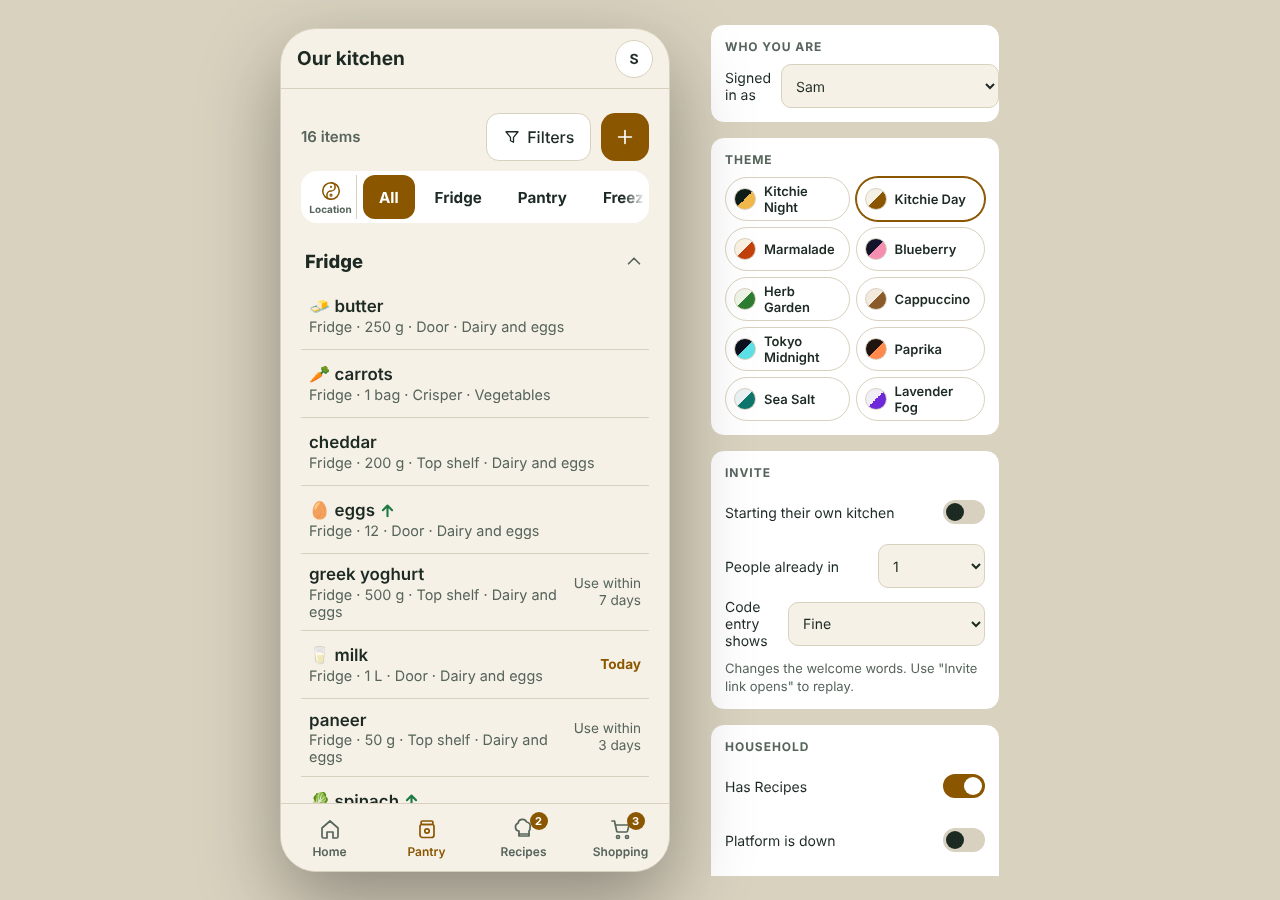
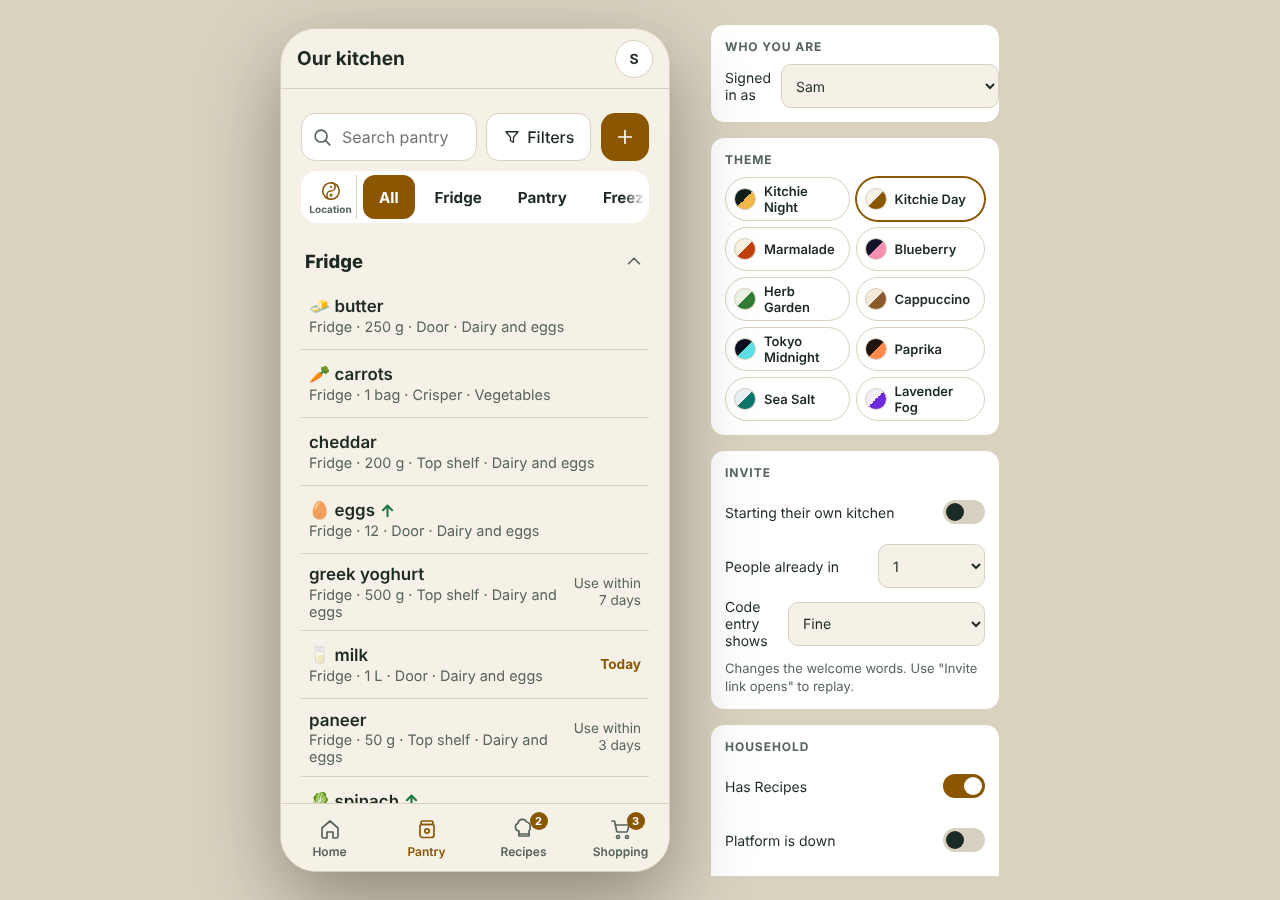
Desktop pantry mock: docked search bar and refresh animation on tab focus
Desktop page only, above 1024px: a permanent search bar docked beside
Filters and Add; no pull gesture; the existing pull-to-refresh scene plays
over the search bar when the tab regains focus (real focus event, or the
Controls "Simulate tab focus" button). Phone and tablet unchanged.
DESIGN.md section 7, docs/knowledge, README and screenshots script updated.

Claude-Session: https://claude.ai/code/session_014hkiLSfMVo5xRfictN7WCt

Changed region(s): [[0.2188, 0.1244, 0.375, 0.1867]]

diff --git a/flows/household/app.js b/flows/household/app.js
@@ -251,6 +251,12 @@ const roleChip = (who) => role(who) ? `<span class="chip rchip">${riSvg(role(who
    fetched once on that first tap and cached. The used-up confirm is built only when opened. README: "Item detail". */
 /* app.js is shared by the mobile, tablet and desktop pages, which sit one folder below it, so field files are found next to this script and not next to the page. */
 const APP_BASE = document.currentScript.src.replace(/[^/]*$/, "");
+/* Which form factor page this is (<body data-form>). The script is shared; it branches on this only where behaviour genuinely differs.
+   Desktop pantry (DESIGN.md section 7, "Desktop pantry"): above 1024px the desktop page docks a permanent search bar beside Filters and Add,
+   there is no pull gesture, and a tab regaining focus plays the refresh animation over the search bar. */
+const FORM = document.body.dataset.form || "mobile";
+const deskMQ = window.matchMedia("(min-width:1024px)");
+const isDesk = () => FORM === "desktop" && deskMQ.matches;
 const ITEM_FIELDS = {}; /* each fields/*.js adds { html(p), set: { op(p, value) -> patch | error text } } for its keys */
 const FIELD_FILE = { name: "name", qty: "amounts", min: "amounts", level: "flags", loc: "place", spot: "place", cat: "category", useby: "useby" };
 const fieldLoads = new Map();
@@ -360,6 +366,8 @@ const RF = [
   ["Timer's ticking. Nearly ready", `<svg viewBox="0 0 120 80" aria-hidden="true"><path class="rf-ph" d="M52 10h16M60 10v8"/><circle class="rf-e" cx="60" cy="46" r="26"/><g class="rf-hand2"><path class="rf-ph" d="M60 46V28"/></g><circle class="rf-eye" cx="60" cy="46" r="3"/></svg>`],
 ];
 let lastRF = -1;
+/* Desktop only (hidden by desktop/styles.css below 1024px; other pages render nothing). The bar shares S.search with the tucked search. The refresh overlay (#dsrf) sits over the bar and shows while the row is in the anim state. */
+const deskSearchHtml = () => FORM !== "desktop" ? "" : `<div class="dsrch" role="search"><span class="mg" aria-hidden="true">${I.search}</span><input class="field" id="dsearch" type="search" placeholder="Search pantry" value="${esc(S.search)}" autocomplete="off" aria-label="Search your pantry"><div class="dsrf" id="dsrf" ${S.refresh ? 'role="status"' : 'aria-hidden="true"'}>${S.refresh ? refreshHtml(S.refresh) : ""}</div></div>`;
 const refreshHtml = (r) => `<div class="rf">${reducedMotion() ? "" : r[1]}<span>${r[0]}</span></div>`;
 const reducedMotion = () => S.cfg.motion || (window.matchMedia && matchMedia("(prefers-reduced-motion: reduce)").matches);
 /* ---------- screens ---------- */
@@ -462,7 +470,7 @@ const screens = {
     <div class="prow" id="prow" data-state="${S.refresh ? "anim" : S.searchOpen ? "search" : "rest"}"><h1 class="vh">Pantry</h1>
       <div class="pl pl-msg" id="pmsg" ${S.refresh ? 'role="status"' : 'aria-hidden="true"'}>${S.refresh ? refreshHtml(S.refresh) : ""}</div>
       <div class="pl pl-search"><button class="link cancel" data-act="searchcancel">Cancel</button><div class="spill"><input class="field" id="search" placeholder="Search your pantry" value="${esc(S.search)}" autocomplete="off" aria-label="Search your pantry"><button class="icon" data-act="mic" aria-label="Search by voice" title="Voice">${riSvg("mic", 22)}</button><span class="mg" aria-hidden="true">${I.search}</span></div></div>
-      <div class="pl pl-front"><p class="count" aria-live="polite">${S.pantry.length} items</p><div class="pact">${S.fa ? "" : `<button class="tbtn" data-sheet="filters" aria-label="Filters">${riSvg("funnel", 18)}<span>Filters</span></button>`}<button class="icon addbtn" data-sheet="add" aria-label="Add an item" title="Add an item" ${S.down ? "disabled" : ""}>${I.plus}</button></div></div>
+      <div class="pl pl-front"><p class="count" aria-live="polite">${S.pantry.length} items</p><div class="pact">${deskSearchHtml()}${S.fa ? "" : `<button class="tbtn" data-sheet="filters" aria-label="Filters">${riSvg("funnel", 18)}<span>Filters</span></button>`}<button class="icon addbtn" data-sheet="add" aria-label="Add an item" title="Add an item" ${S.down ? "disabled" : ""}>${I.plus}</button></div></div>
     </div>
     ${S.fa
       ? cvHtml()
@@ -715,6 +723,7 @@ function panelHtml() {
   <div class="grp"><h3>Household</h3>${sw("recipes", "Has Recipes")}${sw("down", "Platform is down")}${sw("expireNext", "Sign-in ends on next save")}</div>
   <div class="grp"><h3>Home-screen prompt</h3><div class="st" id="pwa-st">${esc(pwaStatus())}</div><button class="pb" data-act="usage">Add 30 min of use</button><button class="pb" data-act="week">Move on a week</button><p class="st">Nothing until 1 hour of use. Then once, twice, once over three weeks. Then never. Shows on Today.</p></div>
   <div class="grp"><h3>Jump to</h3><button class="pb" data-act="restart">Invite link opens</button><button class="pb" data-act="jump" data-p="today">Home</button><button class="pb" data-act="jump" data-p="pantry">Pantry</button><button class="pb" data-act="jump" data-p="household">Household</button><button class="pb" data-act="jump" data-p="notmember">Not a member</button><button class="pb" data-act="jump" data-p="entercode">Enter a code</button><button class="pb" data-act="reset">Reset everything</button></div>
+  ${FORM === "desktop" ? `<div class="grp"><h3>Desktop pantry</h3><button class="pb" data-act="tabfocus">Simulate tab focus</button><p class="st">Plays the refresh animation over the search bar, as when you come back to this tab. Needs the Pantry screen and a window wider than 1024px.</p></div>` : ""}
   <p class="st">Fake data. Nothing leaves your browser.</p>`;
 }
 
@@ -756,6 +765,7 @@ const sortTab = (f) => `<h3 class="fh">Sort by</h3><div class="seg2 wide" role="
 function fitRows() { document.querySelectorAll(".twoRow").forEach((g) => { g.style.gridTemplateRows = "auto"; if (g.scrollWidth > g.clientWidth + 1) g.style.gridTemplateRows = "repeat(2,auto)"; }); }
 function render() {
   const phone = document.getElementById("phone");
+  const ds = document.activeElement; const dsKeep = ds && ds.id === "dsearch" ? [ds.selectionStart, ds.selectionEnd] : null; /* a toast re-renders the page; keep typing where it was */
   const prev = phone.querySelector(".body"); const top = prev && lastScreen === S.screen ? prev.scrollTop : 0;
   if (S.screen === "pantry") S.seenP = S.pantry.filter((i) => i.recent).length;
   if (S.screen === "recipes") S.seenR = RECIPES.filter((r) => r.new).length;
@@ -768,6 +778,7 @@ function render() {
   if (!panel.dataset.ready || S.panelDirty) { panel.innerHTML = panelHtml(); panel.dataset.ready = "1"; S.panelDirty = false; }
   else { const st = document.getElementById("pwa-st"); if (st) st.textContent = pwaStatus(); }
   fitRows();
+  if (dsKeep) { const d = document.getElementById("dsearch"); if (d) { d.focus({ preventScroll: true }); d.setSelectionRange(dsKeep[0], dsKeep[1]); } }
   const s = document.getElementById("search"); if (s && S.searchFocus) { s.focus(); s.setSelectionRange(s.value.length, s.value.length); }
 }
 const refreshPanel = () => { S.panelDirty = true; };
@@ -796,6 +807,7 @@ const acts = {
     const r = new SR(); r.lang = "en-AU"; r.onresult = (e) => { S.search = e.results[0][0].transcript; S.searchFocus = true; render(); S.searchFocus = false; }; r.onerror = () => toast("Couldn't hear that. Try again"); r.start(); toast("Listening…");
   },
   searchcancel() { closeSearch(); },
+  tabfocus() { if (S.screen !== "pantry") { toast("Open Pantry first"); return; } if (!isDesk()) { toast("Needs a window wider than 1024px"); return; } tabFocusRefresh(true); document.getElementById("panel").classList.remove("open"); },
   useone(id) {
     if (S.down) return; const i = S.pantry.find((x) => x.id === id); if (!i) return;
     if (!reducible(i) || i.n <= 1) { markUsedUp(id); return; }
@@ -945,7 +957,7 @@ document.addEventListener("click", (e) => {
   if (t.dataset.go) { S.sheet = null; return go(t.dataset.go, ["item", "recipe"].includes(t.dataset.go) ? t.dataset.p : null); }
 });
 document.addEventListener("change", (e) => { const fin = e.target.dataset && e.target.dataset.fin; if (fin) { acts.fset(fin + "|" + e.target.value, e.target.type === "text"); return; } const c = e.target.dataset && e.target.dataset.ctl; if (e.target.id === "myname") { if (!e.target.value.trim()) e.target.value = me().name; S.nameDirty = false; return; } if (c === "persona") { S.persona = e.target.value; refreshPanel(); render(); } if (c === "existing") { S.existing = Number(e.target.value); render(); }  if (c === "codeState") { S.codeState = e.target.value; render(); } });
-document.addEventListener("input", (e) => { if (e.target.id === "codein") { const d = e.target.value.replace(/\D/g, "").slice(0, 6); S.codeTyped = d.length > 3 ? d.slice(0, 3) + " " + d.slice(3) : d; e.target.value = S.codeTyped; } if (e.target.id === "r-title" && S.rdraft) S.rdraft.title = e.target.value; if (e.target.id === "r-desc" && S.rdraft) S.rdraft.desc = e.target.value; if (e.target.id === "search") { S.search = e.target.value; document.getElementById("plist").innerHTML = listHtml(); }
+document.addEventListener("input", (e) => { if (e.target.id === "codein") { const d = e.target.value.replace(/\D/g, "").slice(0, 6); S.codeTyped = d.length > 3 ? d.slice(0, 3) + " " + d.slice(3) : d; e.target.value = S.codeTyped; } if (e.target.id === "r-title" && S.rdraft) S.rdraft.title = e.target.value; if (e.target.id === "r-desc" && S.rdraft) S.rdraft.desc = e.target.value; if (e.target.id === "search" || e.target.id === "dsearch") { S.search = e.target.value; document.getElementById("plist").innerHTML = listHtml(); }
   if (e.target.id === "myname") { const v = e.target.value.trim().slice(0, 24); if (v && v !== me().name) { PEOPLE[S.persona].name = v; PEOPLE[S.persona].initial = initials(S.persona); const big = document.querySelector(".avbig .av"); if (big && !S.avatars[S.persona]) big.textContent = PEOPLE[S.persona].initial; S.nameDirty = true; } } /* saves as you type: no Save button */
   if (e.target.id === "leavename") document.getElementById("leavego").disabled = e.target.value.trim().toLowerCase() !== me().name.toLowerCase(); });
 /* swipe a running-low row to add it; press and hold to start picking several */
@@ -1003,7 +1015,7 @@ function closeSearch() {
   setRow(row, S.refresh ? "anim" : "rest"); const l = document.getElementById("plist"); if (l) l.innerHTML = listHtml();
 }
 function pullStart(target, x, y) {
-  const b = target.closest && target.closest(".body.tight"); if (!b || S.screen !== "pantry" || S.sheet || S.refresh || S.searchOpen || b.scrollTop > 0 || target.closest("input")) return; /* search open: no pull at all, so a refresh can never start while it is held open */
+  const b = target.closest && target.closest(".body.tight"); if (isDesk() || !b || S.screen !== "pantry" || S.sheet || S.refresh || S.searchOpen || b.scrollTop > 0 || target.closest("input")) return; /* search open: no pull at all, so a refresh can never start while it is held open */
   pl = { x, y, dy: 0, b, row: b.querySelector("#prow"), st: null };
 }
 function pullMove(x, y, e) {
@@ -1024,13 +1036,33 @@ function pullShow(st, dy) {
   if (st === "let") { msg.innerHTML = `<div class="rf"><span>Let go to refresh</span></div>`; msg.removeAttribute("aria-hidden"); }
 }
 function pullCancel() { if (!pl) return; const x = pl; pl = null; setRow(x.row, rowState()); }
+/* One refresh, however it started: a deep pull (phone, tablet) or a tab regaining focus (desktop). Picks a scene, plays it, settles, toasts "Up to date". */
+function playRefresh(row) {
+  let n; do { n = Math.floor(Math.random() * RF.length); } while (n === lastRF); lastRF = n;
+  S.refresh = RF[n]; const msg = row.querySelector("#pmsg"); msg.innerHTML = refreshHtml(S.refresh); msg.setAttribute("role", "status");
+  const dr = row.querySelector("#dsrf"); if (dr) { dr.innerHTML = refreshHtml(S.refresh); dr.setAttribute("role", "status"); dr.removeAttribute("aria-hidden"); } /* desktop: the same scene over the docked search bar */
+  setRow(row, "anim"); row.dataset.scene = n;
+  clearTimeout(refreshTimer); refreshTimer = setTimeout(() => { refreshTimer = null; S.refresh = null; const r = document.getElementById("prow"); if (r) { setRow(r, "rest"); delete r.dataset.scene; } toast("Up to date"); }, reducedMotion() ? REFRESH_MS_REDUCED : REFRESH_MS);
+}
+/* Desktop: the tab regaining focus refreshes Pantry. Only on Pantry, never under a sheet or while a refresh is already playing, and a real focus event
+   is ignored if the last refresh was under 10 s ago (focus and visibilitychange fire together, and alt-tabbing back and forth should not flicker). The query in the bar is left alone. */
+const FOCUS_GAP_MS = 10000; let lastFocusRefresh = 0;
+function tabFocusRefresh(force) {
+  if (!isDesk() || S.screen !== "pantry" || S.sheet || S.refresh) return false;
+  if (!force && Date.now() - lastFocusRefresh < FOCUS_GAP_MS) return false;
+  const row = document.getElementById("prow"); if (!row) return false;
+  lastFocusRefresh = Date.now(); playRefresh(row); return true;
+}
+window.addEventListener("focus", () => tabFocusRefresh(false));
+document.addEventListener("visibilitychange", () => { if (document.visibilityState === "visible") tabFocusRefresh(false); });
+/* leaving desktop width: the docked bar goes away, so a query typed in it must not keep filtering a list with no visible search */
+deskMQ.addEventListener("change", () => { if (FORM === "desktop" && !deskMQ.matches && S.search && !S.searchOpen) { S.search = ""; render(); } });
+document.addEventListener("keydown", (e) => { if (e.key === "Escape" && e.target.id === "dsearch" && S.search) { e.target.value = ""; S.search = ""; document.getElementById("plist").innerHTML = listHtml(); } });
 function pullEnd() {
   if (!pl) return; const x = pl; pl = null; const row = x.row;
   if (x.dy > 8) lastGesture = Date.now();
   if (x.dy >= PULL_REFRESH) {
-    let n; do { n = Math.floor(Math.random() * RF.length); } while (n === lastRF); lastRF = n;
-    S.refresh = RF[n]; const msg = row.querySelector("#pmsg"); msg.innerHTML = refreshHtml(S.refresh); msg.setAttribute("role", "status"); setRow(row, "anim"); row.dataset.scene = n;
-    clearTimeout(refreshTimer); refreshTimer = setTimeout(() => { refreshTimer = null; S.refresh = null; const r = document.getElementById("prow"); if (r) { setRow(r, "rest"); delete r.dataset.scene; } toast("Up to date"); }, reducedMotion() ? REFRESH_MS_REDUCED : REFRESH_MS);
+    playRefresh(row);
   } else if (x.dy >= PULL_SEARCH) openSearch(row);
   else setRow(row, rowState());
 }

diff --git a/flows/household/desktop/styles.css b/flows/household/desktop/styles.css
@@ -511,3 +511,31 @@ html,body{overflow-x:hidden}.phone,.body{overflow-x:hidden}.rscroll,.twoRow{over
 .codeb{letter-spacing:.12em;font-size:17px}
 .codein{text-align:center;font-size:28px;letter-spacing:.18em;font-variant-numeric:tabular-nums}
 .center-t{justify-content:center;text-align:center;padding:0}
+
+/* Desktop pantry (DESIGN.md section 7, "Desktop pantry"). Above 1024px only; phone and tablet widths keep the search tucked under Filters.
+   A permanent search bar sits in the Pantry top row, docked left of Filters and Add. The visible item count is dropped (it stays for screen readers)
+   because the 390px frame has no room for it, so the row stays 56px and nothing else moves. There is no pull gesture here, so the tucked search layer is off. A tab regaining focus plays the
+   existing refresh scene over the bar: the row's anim state (the same one the pull uses) now dims the bar and shows .dsrf instead of sliding the
+   whole row away, so Filters and Add stay put. */
+.dsrch{display:none}
+@media (min-width:1024px){
+  .pl-front .count{position:absolute;width:1px;height:1px;overflow:hidden;clip:rect(0 0 0 0);white-space:nowrap}
+  .pl-front .pact{flex:1;min-width:0}
+  .pl-search{display:none}
+  .dsrch{position:relative;display:flex;align-items:center;flex:1;min-width:0;height:48px;border:1px solid var(--border);border-radius:var(--r-ctl);background:var(--surface)}
+  .dsrch:focus-within{border-color:var(--accent);box-shadow:inset 0 0 0 1px var(--accent)}
+  .dsrch .mg{flex:none;width:40px;height:46px;display:inline-flex;align-items:center;justify-content:center;color:var(--muted)}
+  .dsrch:focus-within .mg{color:var(--accent)}
+  .dsrch .field{flex:1;min-width:0;border:0;background:none;min-height:46px;padding:0 10px 0 0;border-radius:0;transition:opacity .2s}
+  .dsrch .field:focus-visible{outline:none} /* the bar already shows the accent border */
+  .dsrf{position:absolute;inset:0;display:flex;align-items:center;justify-content:center;border-radius:inherit;background:color-mix(in srgb,var(--bg) 92%,transparent);opacity:0;visibility:hidden;pointer-events:none;transition:opacity .2s,visibility 0s .2s;overflow:hidden}
+  .dsrf .rf{gap:6px;padding:0 6px;max-width:100%}
+  .dsrf .rf svg{width:52px;height:36px;flex:none}
+  .dsrf .rf span{font-size:12px;line-height:1.15;text-align:left}
+  .prow[data-state=anim] .pl-front{transform:none;visibility:visible;transition-delay:0s} /* stays visible, so typing focus survives the refresh */
+  .prow[data-state=anim] .pl-msg{visibility:hidden}
+  .prow[data-state=anim] .dsrf{opacity:1;visibility:visible;transition-delay:0s}
+  .prow[data-state=anim] .dsrch .field{opacity:.35}
+  .prow[data-state=anim] .dsrch .field::-webkit-search-cancel-button{visibility:hidden}
+}
+@media (min-width:1024px) and (prefers-reduced-motion:reduce){.dsrf,.dsrch .field{transition:none}}

diff --git a/index.html b/index.html
@@ -38,7 +38,7 @@
     </a>
     <a class="tile" href="docs/screenshots/responsive/plan-week__768-light.png">
       <div class="row"><h2>Sample screenshots</h2><span class="tag">Images</span></div>
-      <p>Committed samples in <code>docs/screenshots/responsive/</code>: Planning the week at 768 and 1280, the household flow as mobile (390), tablet (768) and desktop (1280) in light and dark, Cooking right now at 360, this page at 390 dark. Run <code>tools/screenshots.mjs</code> for the full set at 360, 390, 768 and 1280 in light and dark.</p>
+      <p>Committed samples in <code>docs/screenshots/responsive/</code>: Planning the week at 768 and 1280, the household flow as mobile (390), tablet (768) and desktop (1280) in light and dark (desktop also with the refresh animation over the docked search bar), Cooking right now at 360, this page at 390 dark. Run <code>tools/screenshots.mjs</code> for the full set at 360, 390, 768 and 1280 in light and dark.</p>
     </a>
   </section>
 

diff --git a/DESIGN.md b/DESIGN.md
@@ -119,6 +119,25 @@ Kitchie app decision: the phone frame stays on phone and on desktop; only tablet
 - **Old address.** `flows/household/index.html` is a tiny redirect to `mobile/` (query string and hash kept), with links to all three, so older links keep working.
 - **Scope.** The household flow only. A global per-form-factor toggle is a separate, later idea and is not built.
 
+### Desktop pantry: docked search and refresh on tab focus (mock built 9 October 2026)
+
+Owner decision, voice session, 9 October 2026. Mock only (`flows/household/desktop/`), not built in Kitchie. Proposals are marked; the owner has not approved them. Phone and tablet are unchanged: search stays tucked under Filters (`docs/knowledge/pantry-pull-row.md`).
+
+**Search bar.** Above 1024px only, the Pantry top row (56px, unchanged height) has a permanent, always-visible search bar docked on the left, next to the Filters and Add (+) controls: `[ search ] [ Filters ] [ + ]`. It filters the list as you type, exactly as the tucked search does (same query, same fields), and Escape clears it.
+- There is no pull gesture on desktop: the pull-for-search layer is off and a mouse drag at the top of the list does nothing. Below 1024px the desktop page behaves like the others (tucked search, pull).
+- **Proposal:** the visible "16 items" count is dropped on desktop. The 390px frame leaves about 176px for the bar beside Filters (105px) and Add (48px), and the count would squeeze it to nothing. The count stays in the page for screen readers. Wrong guess costs: the person cannot see the item total on desktop; fix is a count inside the bar or above the list.
+- **Proposal:** no microphone button in the docked bar (no room, and a desktop is less likely to want voice). The browser's own clear (x) shows while there is text.
+- With a custom view active (Filters button absent, as on phone) the bar simply takes the space.
+
+**Refresh on tab focus.** When the browser tab regains focus on desktop, the existing mobile refresh animation plays over the search bar (the mock reuses the pull-to-refresh scenes `RF` and styles `.rf`, and the same refresh state, timing and "Up to date" toast; nothing new was drawn).
+- The bar dims and the scene (smaller: 52 x 36px icon, 12px text, up to three lines) plays on top of it for 2400ms (1600ms with reduced motion, icon omitted). Filters and Add stay put and usable; on phone the whole row slides away instead.
+- A query being typed is left alone and returns when the animation ends; typing focus is kept.
+- It runs only on Pantry, never under an open sheet, never while a refresh is already playing.
+- **Proposal:** a real focus or tab-visible event is ignored if the last refresh was under 10 seconds ago, so alt-tabbing back and forth does not flicker. Wrong guess costs: a quick return to the tab shows stale data for up to 10s; tune `FOCUS_GAP_MS` in `app.js`.
+- **To see it in the mock:** open `flows/household/desktop/` in a window wider than 1024px, go to Pantry (Controls > Jump to > Pantry), then either switch to another tab and come back, or press Controls > Desktop pantry > "Simulate tab focus". The button is only on the desktop page.
+- Where the code is: one shared script, `flows/household/app.js` (`isDesk`, `deskSearchHtml`, `playRefresh`, `tabFocusRefresh`; the refresh scenes already existed for the pull), styles in `flows/household/desktop/styles.css` (end of file). The script reads `<body data-form="desktop">` to render the bar, so mobile and tablet pages contain none of it.
+- Default path and deferred (section 6): no new request, no new file. The bar is part of the Pantry row markup on the desktop page only; the refresh scenes are the same inline SVG as the pull.
+
 ### Screenshot script
 
 `tools/screenshots.mjs`: captures every screen in the list (the household flow as its three variants, `household-mobile`, `household-tablet`, `household-desktop`) at 360, 390, 768 and 1280, in both themes, full page, and prints checks (sideways scroll, controls under 44px, `.wrap` wider than `--content-max`, theme not applied). Inline text links are exempt from the 44px check. Run:

diff --git a/README.md b/README.md
@@ -11,7 +11,7 @@ The side panel (Controls button on a phone) switches who you are (owner or membe
 ## Layout
 
 - `index.html`: the index. **Flows** are complete or significant end-to-end parts. **Fragments** are single items still in deliberation; once clear they fold into a flow.
-- `flows/household/`: the clickable household prototype (below), one folder per form factor: `mobile/` (the original phone version), `tablet/` (the wider layout) and `desktop/` (phone frame beside Controls). Each has its own `index.html` and `styles.css`; they share one script, `flows/household/app.js`, and its deferred `fields/`. `flows/household/index.html` is a small redirect to `mobile/`, so old links still work. Open `flows/household/mobile/`, `.../tablet/` or `.../desktop/`. DESIGN.md section 7.
+- `flows/household/`: the clickable household prototype (below), one folder per form factor: `mobile/` (the original phone version), `tablet/` (the wider layout) and `desktop/` (phone frame beside Controls). The desktop page also has a docked Pantry search bar and a refresh-on-tab-focus mock (DESIGN.md section 7, "Desktop pantry"). Each has its own `index.html` and `styles.css`; they share one script, `flows/household/app.js`, and its deferred `fields/`. `flows/household/index.html` is a small redirect to `mobile/`, so old links still work. Open `flows/household/mobile/`, `.../tablet/` or `.../desktop/`. DESIGN.md section 7.
 - `fragments/`: `mid-cook`, `pwa-cta`, `item-row-axes`, `inventory-home`, `locations-spots`.
 - `theme.css` + `theme.js` + `themes/`: the single token set and the theme picker (ten themes) used by every page. Only the two default themes (Kitchie Night and Day) live in `theme.css`; every other theme is one small file in `themes/`, loaded when chosen and warmed in the background once the person engages the picker (DESIGN.md section 6). `shared.css`: layout for the index and fragments.
 - `docs/knowledge/`: what we've learned, per job to be done, for carrying into the implementation.

diff --git a/docs/knowledge/pantry-pull-row.md b/docs/knowledge/pantry-pull-row.md
@@ -4,6 +4,8 @@ Status: mockup for the owner to review (7 Oct 2026). Not built in Kitchie. Sourc
 
 Code: `flows/household/app.js` (search for `PULL_SEARCH`, `prow`), `flows/household/{mobile,tablet,desktop}/styles.css` (`.prow`).
 
+> Desktop (above 1024px, mock only, 9 Oct 2026): the tucked search is replaced by a permanent docked search bar and a tab regaining focus plays the refresh animation over the bar. See "Desktop pantry" at the end of this file and DESIGN.md section 7.
+
 ## The row
 
 One row at the top of Pantry, fixed height 56px (it never changes height, so the list never jumps). Three layers share it:
@@ -92,3 +94,11 @@ Mouse drag works like touch (pointer events, same thresholds). Nothing else is a
 - The "Up to date" toast stays after a refresh.
 - Return to search or Filters after a refresh: does not apply, search and refresh are mutually exclusive. After a refresh the row returns to Filters + Add.
 - Only Cancel closes the search bar; tapping or scrolling the list does not.
+
+## Desktop pantry (owner, voice, 9 Oct 2026)
+
+Mock in `flows/household/desktop/` only. Not built in Kitchie. Full spec and proposals: DESIGN.md section 7, "Desktop pantry: docked search and refresh on tab focus". Summary:
+
+- Above 1024px the row is `[ search bar ] [ Filters ] [ + ]`, the search bar always visible. No pull gesture, no tucked magnifier. Phone and tablet keep everything above.
+- The tab regaining focus plays the same refresh scene over the search bar (the bar dims, Filters and Add stay), 2400 ms, then "Up to date". A typed query survives. Triggered in the mock by a real tab focus or Controls > "Simulate tab focus".
+- **Proposal:** item count hidden visually on desktop (room), no mic in the bar, repeat focus refreshes within 10 s ignored.
